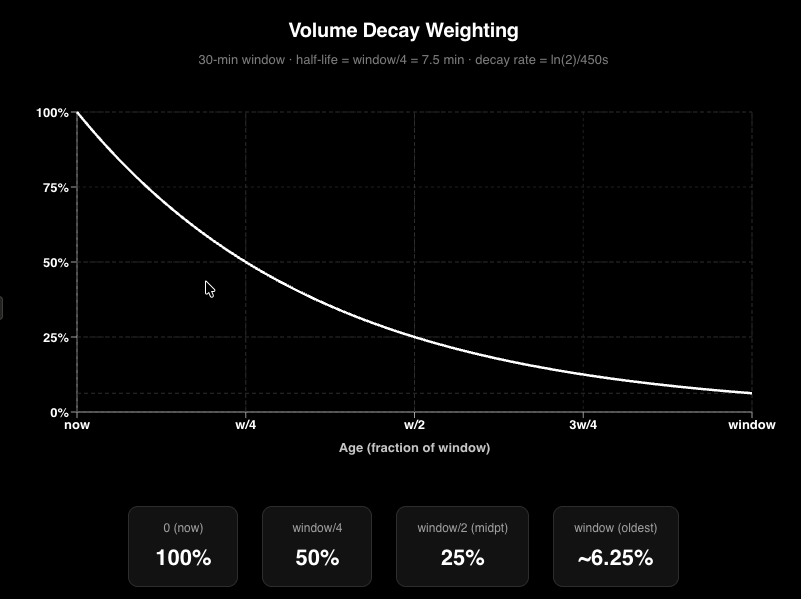
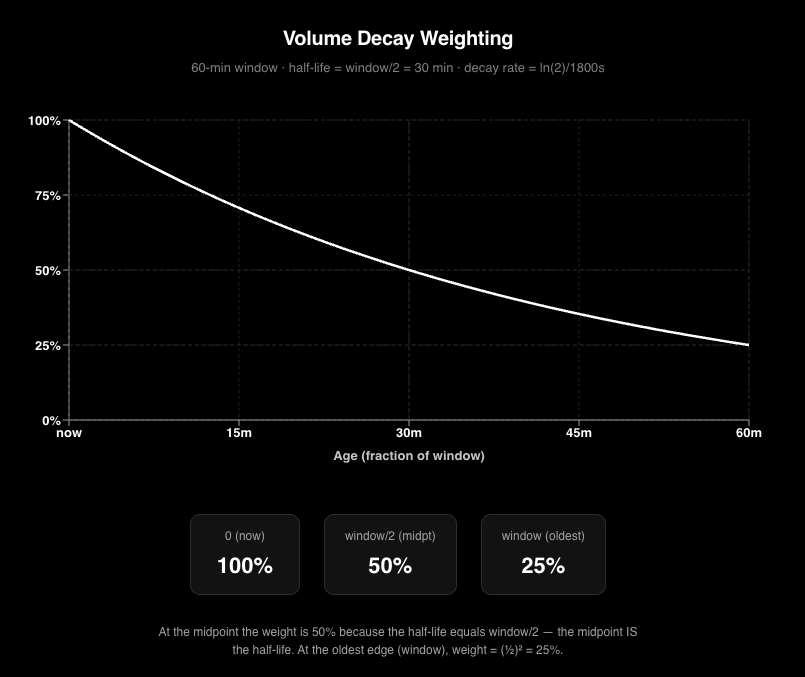
Update Price Index Algorithm documentation to reflect changes in time window and volume weighting
- Changed the aggregation time window from 30 minutes to 1 hour.
- Updated descriptions to clarify the volume weighting contributions, specifying 50% weight at the window midpoint.
- Adjusted related images and examples to align with the new time frame.

diff --git a/docs/trading/crypto-price-api/price-index-algorithm.md b/docs/trading/crypto-price-api/price-index-algorithm.md
@@ -1,6 +1,6 @@
 ---
 title: "Price Index Algorithm"
-description: "How the Crypto Price API filters trades and computes token and currency prices using exponentially decayed volume weighting over the last 30 minutes."
+description: "How the Crypto Price API filters trades and computes token and currency prices using exponentially decayed volume weighting over the last hour (50% weight at the window midpoint)."
 sidebar_position: 2
 keywords:
   - "price index algorithm"
@@ -29,19 +29,19 @@ In other words: a trade must have at least 10,000 units of decimal precision (e.
 
 ## Time Window and Volume Weighting
 
-Price and volume aggregation use a **rolling 30-minute** window.
+Price and volume aggregation use a **rolling 1-hour** window.
 
-Each trade (or price entry) contributes to volume weighting with a factor **`exp(-decayRate × age)`**, where **age** is how far back in time the entry lies within that window (0 at the newest edge, increasing toward the older edge). That gives **exponential decay** toward older data: the **most recent** entries contribute **~100%** of their raw volume, while an entry at the **midpoint** of the window contributes **25%** of its volume.
+Each trade (or price entry) contributes to volume weighting with a factor **`exp(-decayRate × age)`**, where **age** is how far back in time the entry lies within that window (0 at the newest edge, increasing toward the older edge). That gives **exponential decay** toward older data: the **most recent** entries contribute **~100%** of their raw volume, while an entry at the **midpoint** of the window contributes **50%** of its volume (**50% exponential average** profile relative to the window).
 
 Aggregations (pool, token, and **non-stablecoin** currency) use these **decayed** volume contributions instead of raw sums over the window.
 
-<img alt="Volume weight decays from the newest edge of the 30-minute window toward older trades" src="/img/diagrams/decay_pricealgo.png" style={{ maxWidth: '640px', width: '100%', height: 'auto' }} />
+<img alt="Volume weight decays from the newest edge of the 1-hour window toward older trades" src="/img/diagrams/decay_pricealgo.png" style={{ maxWidth: '640px', width: '100%', height: 'auto' }} />
 
-<img alt="Trade filtering, exponential decay within the 30-minute window, and effective volume per market" src="/img/diagrams/internal_weights.png" style={{ maxWidth: '640px', width: '100%', height: 'auto' }} />
+<img alt="Trade filtering, exponential decay within the 1-hour window, and effective volume per market" src="/img/diagrams/internal_weights.png" style={{ maxWidth: '640px', width: '100%', height: 'auto' }} />
 
 ## How Token Prices Are Determined
 
-Token prices are determined by **volume-weighted aggregation** over eligible trades in the **last 30 minutes**, using decayed volumes as above.
+Token prices are determined by **volume-weighted aggregation** over eligible trades in the **last hour**, using decayed volumes as above.
 
 ### Step 1: Identify pairs where the token is base
 
@@ -49,7 +49,7 @@ We determine in which pairs the token acts as the **base** currency. A token can
 
 ### Step 2: Aggregate from pools to token price
 
-For each such pair we use the markets (DEX pools) where it is traded. Conceptually, for pools that trade the same logical pair, the combined price uses **volume-weighted** pooling with **decayed** base-token volumes over the 30-minute window:
+For each such pair we use the markets (DEX pools) where it is traded. Conceptually, for pools that trade the same logical pair, the combined price uses **volume-weighted** pooling with **decayed** base-token volumes over the 1-hour window:
 
 ```
 price(USD) = sum( price(p) × effectiveVolume(p) ) / sum( effectiveVolume(p) )
@@ -67,7 +67,7 @@ The **token** price is then the same style of **volume-weighted** combination ac
 
 ## How Currency Prices Are Determined
 
-The same rules apply for **non-stablecoin** currencies: a **30-minute** window, **exponentially decayed** volume weights, and aggregation over **tokens** (volume and prices of each token representation) instead of over pairs and pools. Currency price is the volume-weighted combination of its token representations (e.g. WBTC, cbBTC, etc.) across chains.
+The same rules apply for **non-stablecoin** currencies: a **1-hour** window, **exponentially decayed** volume weights (50% at the midpoint), and aggregation over **tokens** (volume and prices of each token representation) instead of over pairs and pools. Currency price is the volume-weighted combination of its token representations (e.g. WBTC, cbBTC, etc.) across chains.
 
 **Stablecoins** are **not** included in this trade-based currency path. Processing skips them in the currency aggregation loop that builds prices from DEX trades; stablecoin USD (or peg) prices come from a **separate pipeline** fed by an **external** spot source, **not** from decay-weighted DEX trade aggregation.
 
